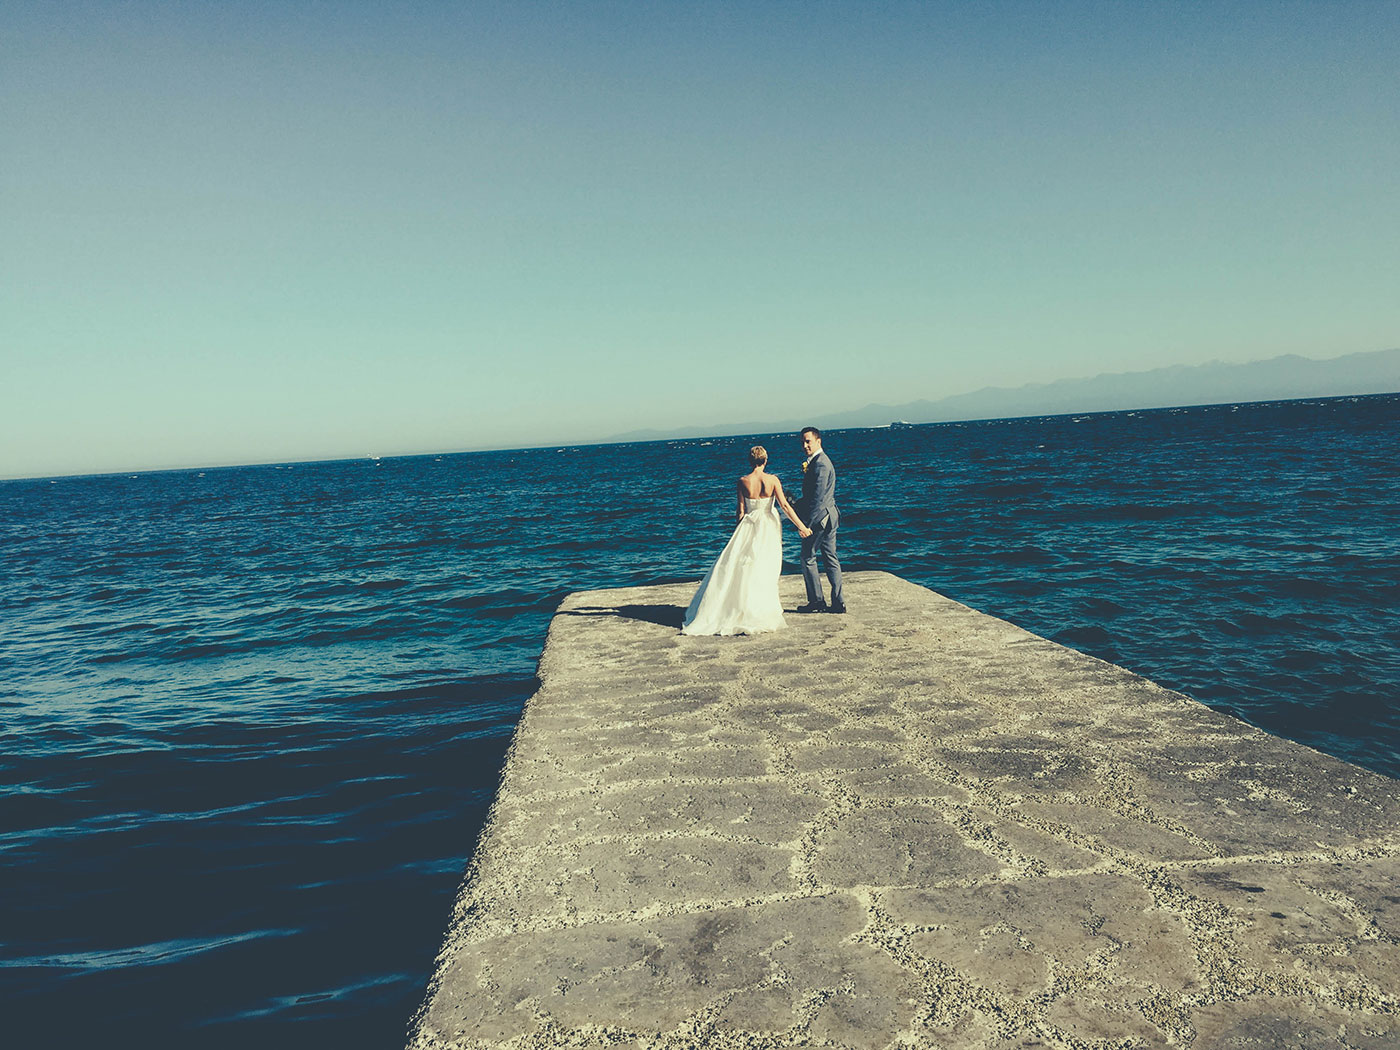
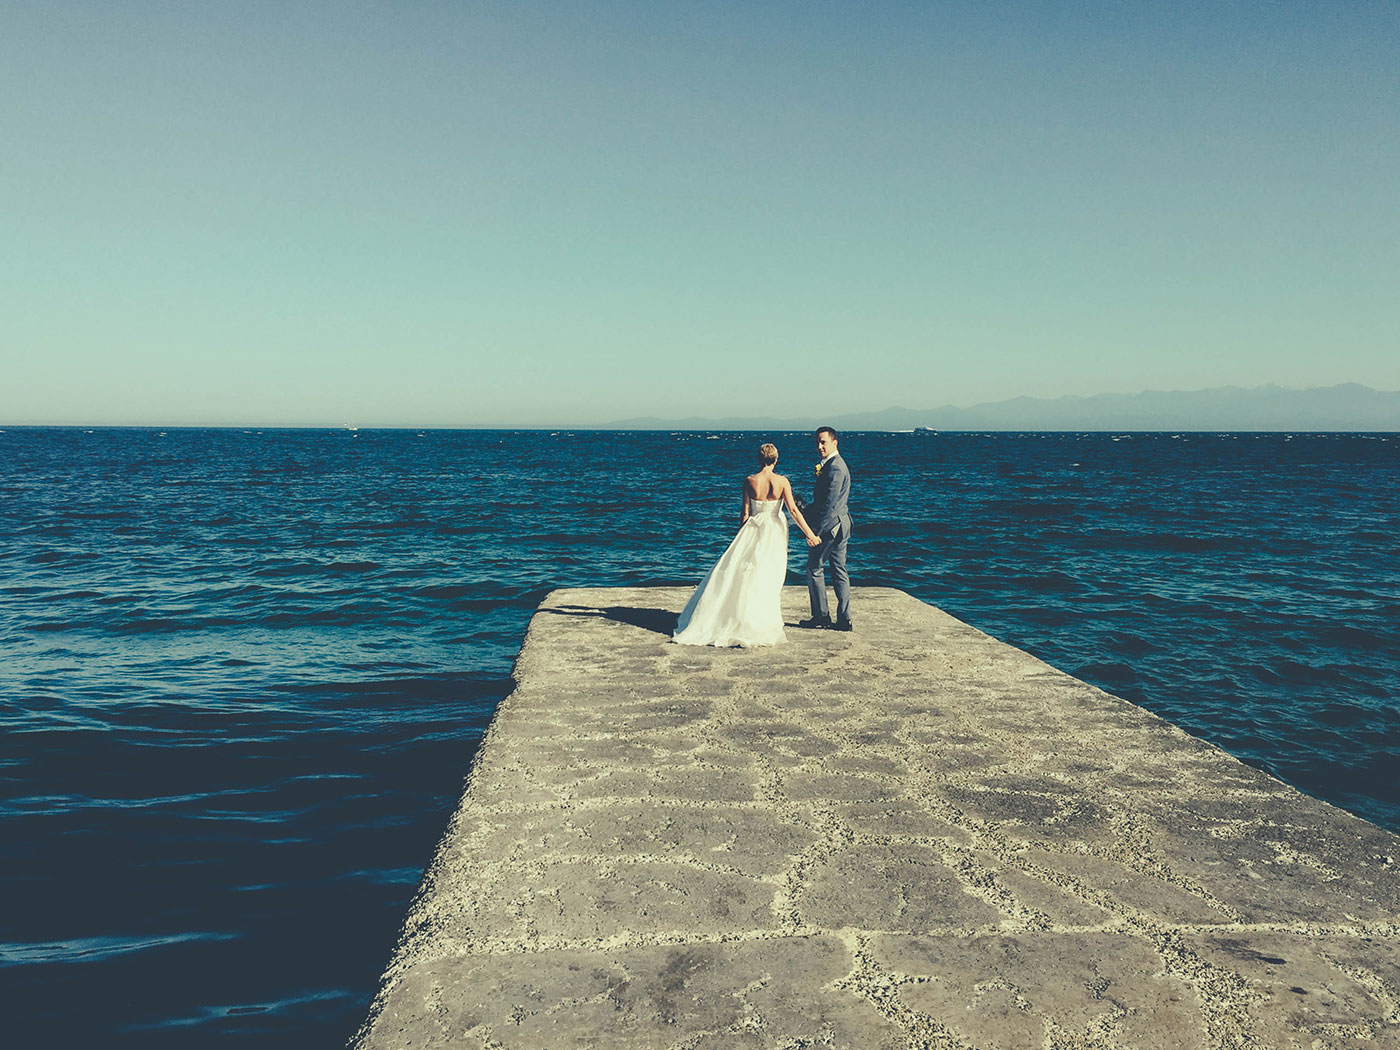
new grid

diff --git a/scss/pages/_home.scss b/scss/pages/_home.scss
@@ -81,6 +81,22 @@ $borderSize: 5px;
     display: inline;
     float: left;
 
+    &.-pad-bottom-100{
+      .photo-item{
+        a{
+          padding-bottom: 100%;
+        }
+      }
+    }
+
+    &.-pad-bottom-50{
+      .photo-item{
+        a{
+          padding-bottom: 50%;
+        }
+      }
+    }
+
     &.-w-1{
       width: 100%;
     }
@@ -217,14 +233,14 @@ $borderSize: 5px;
 
     .col{
       width: 50%;
-  
-      &.left{
+
+      &.-left{
         padding-right: $pad/2;
       }
 
-      &.right{
+      &.-right{
         padding-left: $pad/2;
-      }    
+      }
     }
 
     .photo-item{
@@ -235,54 +251,51 @@ $borderSize: 5px;
   }
 
   &.six-four{
-    .col{
-      &.-w-3-2{
-        padding-right: $pad/2;
-      }
-      &.-w-3-1{
-        padding-left: $pad/2;
+    .row{
+      padding-bottom: $pad/2;
+      .col{
+        &.-w-3-2{
+          padding-right: $pad/2;
+        }
+        &.-w-3-1{
+          padding-left: $pad/2;
 
-        .-w-1:first-child{
-          padding-bottom: $pad/2;
+          .-w-1:first-child{
+            padding-bottom: $pad/2;
 
-          a{
-            position: relative;
-            &:after{
-              content: '';
-              position: absolute;
-              bottom: 0;
-              left: 0;
-              width: 100%;
-              height: $pad/4;
-              background-color: black;
-              z-index: 10;
+            a{
+              position: relative;
+              &:after{
+                content: '';
+                position: absolute;
+                bottom: 0;
+                left: 0;
+                width: 100%;
+                height: $pad/4;
+                background-color: black;
+                z-index: 10;
+              }
+            }
+          }
+
+          .-w-1:last-child{
+            padding-bottom: $pad/2;
+
+            a{
+              position: relative;
+              &:after{
+                content: '';
+                position: absolute;
+                top: 0;
+                left: 0;
+                width: 100%;
+                height: $pad/4;
+                background-color: black;
+                z-index: 10;
+              }
             }
           }
         }
-        
-        .-w-1:last-child{
-          padding-bottom: $pad/2;
-
-          a{
-            position: relative;
-            &:after{
-              content: '';
-              position: absolute;
-              top: 0;
-              left: 0;
-              width: 100%;
-              height: $pad/4;
-              background-color: black;
-              z-index: 10;
-            }   
-          }       
-        }        
-      }
-    }
-
-    .photo-item{
-      a{
-        padding-bottom: 100%;
       }
     }
   }

diff --git a/src/components/PhotoGroup.jsx b/src/components/PhotoGroup.jsx
@@ -45,7 +45,7 @@ class PhotoGroup extends React.Component {
       break;
       case 'grid-one':
         return this.wrapGridOne(photos);
-      break;      
+      break;
     }
   }
 
@@ -71,11 +71,18 @@ class PhotoGroup extends React.Component {
   //50% side by side
   wrapFifty(photos){
     const fiftyPhotos = photos.map(function(photo, i){
-      let cls = classNames({
+      let cls = {
         'col': true ,
-        'left': (i % 2 == 0),
-        'right': !(i % 2 == 0)
-      })
+        '-left': (i % 2 == 0),
+        '-right': !(i % 2 == 0),
+      }
+
+      if(photo.data.ratio){
+        cls['-pad-bottom-' + photo.data.ratio] = true;
+      }
+
+      cls = classNames(cls);
+
       return <div className={cls} key={i} >{photo.Component}</div>
     })
 
@@ -91,14 +98,14 @@ class PhotoGroup extends React.Component {
     return (
       <div className="row">
         <div className="col -w-1" key="1">
-          <div className="col -w-3-2" key="1">
+          <div className="col -w-3-2 -pad-bottom-100" key="1">
             {photos[0].Component}
           </div>
           <div className="col -w-3-1" key="2">
-            <div className="col -w-1" key="1">
+            <div className="col -w-1 -pad-bottom-100" key="1">
               {photos[1].Component}
             </div>
-            <div className="col -w-1" key="2">
+            <div className="col -w-1 -pad-bottom-100" key="2">
               {photos[2].Component}
             </div>
           </div>
@@ -110,10 +117,10 @@ class PhotoGroup extends React.Component {
   wrapGridOne(){
     return null;
   }
-  
+
   render() {
     const photos = this.state.photos.map(function(photo, i){
-      return { 
+      return {
         Component: <PhotoLazyContainer photo={photo} key={i}/>,
         data: photo
       }

diff --git a/src/data/PhotoData.js b/src/data/PhotoData.js
@@ -13,7 +13,7 @@ module.exports = [
     alt: 'Standing together in the field.',
     group_id: '2',
     group_type: 'fifty',
-    ratio: 50,
+    ratio: 100,
     target_area: null
   },
   {
@@ -21,7 +21,7 @@ module.exports = [
     alt: 'In Front of the Empress!',
     group_id: '2',
     group_type: 'fifty',
-    ratio: 50,
+    ratio: 100,
     target_area: null
   },
 
@@ -103,6 +103,24 @@ module.exports = [
     alt: 'In Front of the Empress!',
     group_id: '4',
     group_type: 'grid-one',
+    ratio: 50,
+    target_area: null
+  },
+
+
+  {
+    url: '/images/IMG_6319.jpg',
+    alt: '',
+    group_id: '5',
+    group_type: 'fifty',
+    ratio: 50,
+    target_area: null
+  },
+  {
+    url: '/images/IMG_6321.jpg',
+    alt: '',
+    group_id: '5',
+    group_type: 'fifty',
     ratio: 50,
     target_area: null
   }
